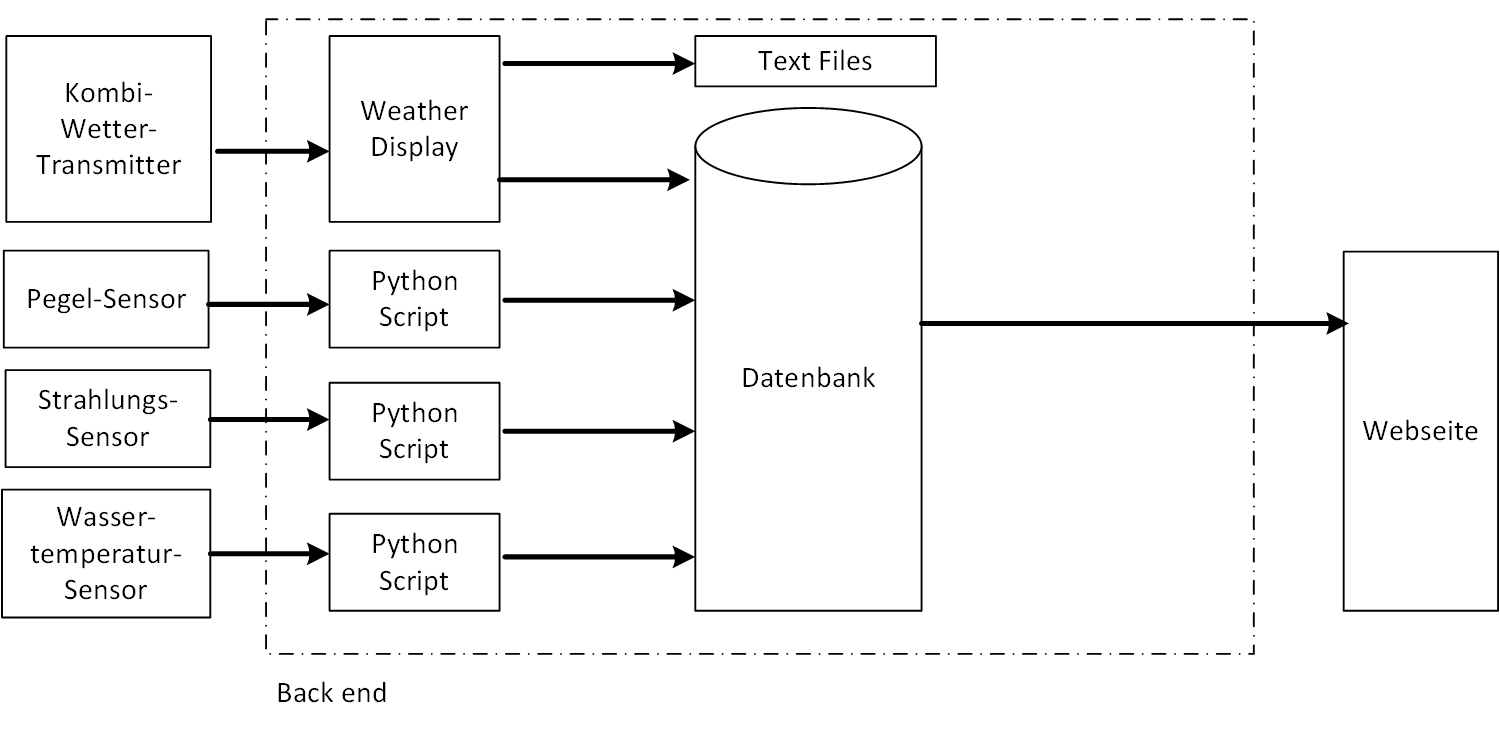
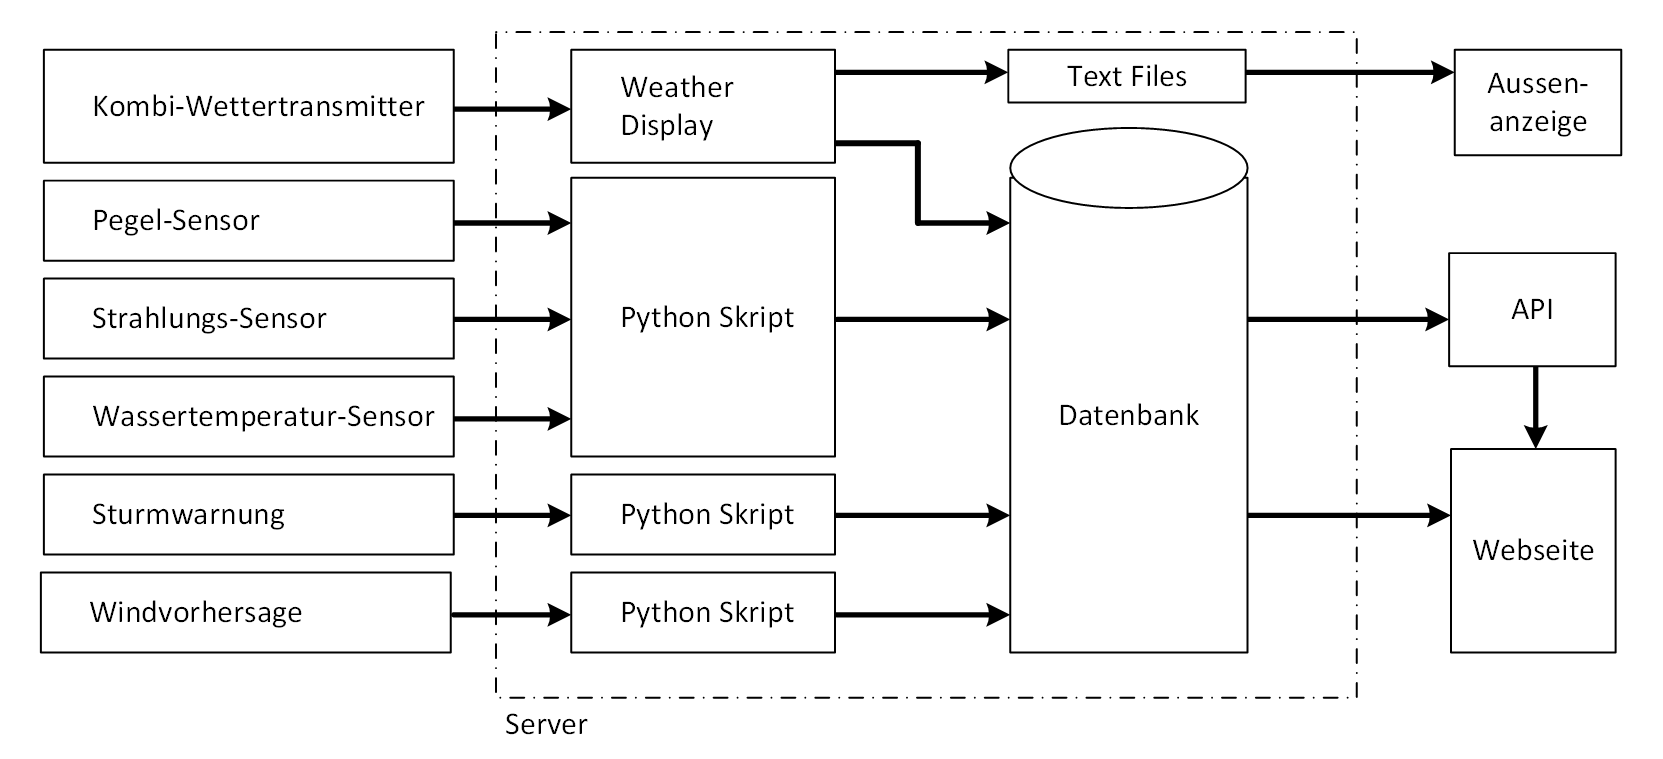
Doku korrigiert

diff --git a/doku/backend.tex b/doku/backend.tex
@@ -1,38 +1,25 @@
-\section{Datenbank / back end / cronjobs}
-In diesem Kapitel wird aufgezeigt welche Änderungen an der Datenbank vorgenommen werden und wo diese überall zum Einsatz kommen. Zudem wird aufgezeigt, wie diese zusätzlichen Anwendungen entwickelt wurden. Vor der Umstrukturierung der Datenbank waren die Tabellen unübersichtlich aufgebaut. Nach der Umstrukturierung soll die Datenbank primär für folgende Aufgaben ausgelegt sein:
-\begin{itemize*}
-\item API
-\item Dreitage Rückschau der verschiedenen Sensoren
-\item Historische Daten
-\end{itemize*}
-
-Die Aufgabe der Datenbank ist es, den Umgang mit den Daten einfacher zu gestalten. Sei es in Bezug auf die Aufbereitung der historischen Daten oder für den Aufbau der API, welche einfach erweiterbar sein soll.
-
-
+\section{Serverseitige Implementierung und Datenbank-Architektur}
+Die serverseitige Implementierung bildet die Schnittstelle zwischen dem Client das heisst dem Internet Browser und den Messdaten. Diese müssen von den Sensoren in regelmässigen Abständen abgerufen und in der Datenbank gespeichert werden. Da die Datenbank das Herzstück der Wetterstation darstellt muss sie auch entsprechend geschützt werden vor Datenverlust und oder -manipulation. Die einzelnen Komponenten sowie der Aufbau der Datenbank werden im Folgenden erläutert.
 
 %% ############################################################################
 %% Unterkapitel
 %% ############################################################################
 \subsection{Datenerfassung}
-% Ueberischt über alle Kanäle -> was wird wie erfasst
+Die einzelnen Daten werden unterschiedlich erfasst, wobei mit Ausnahme der Messwerten des Kombi-Wettertransmitters sämtliche Abfragen mittels Skripten durchgeführt werden. Ein Übersicht des Datenflusses ist in Abbildung\,\ref{img:datenerfassung} dargestellt. Im Folgenden werden die einzelnen Skripte erklärt.
 
 \begin{figure}[htbp!]
   \fbox{\includegraphics[width=\textwidth-2\fboxsep-2\fboxrule]{img/datenerfassung}}
 	\centering
-	\caption{Datenerfassung}
+	\caption{Schematische Übersicht der Datenerfassung}
 	\label{img:datenerfassung}
 \end{figure}
 
 
+\subsubsection{Erfassung der Messdaten des Kombi-Wettertransmitters}
+Die Daten des Kombi-Wettertransmitters werden weiterhin von WeatherDisplay über eine virtuelle serielle Schnittstelle abgerufen, aufbereitet und im Minutentakt in die Datenbank gespeichert. Kann ein Datenbankeintrag aus irgendwelchen Gründen nicht erstellt werden, wird dies, wie später im Kapitel\,\ref{kap:Funktionsüberwachung} beschrieben, gemeldet. Weiter erzeugt Weather Display mehrere Text Files, welche unter anderem für die Aussenanzeige (Laufschrift am Hafengebäude) benötigt werden. Die Aussenanzeige ist aber nicht Bestandteil dieser Arbeit.
 
-
-\subsubsection{Erfassung der Daten des Wetter-Transmitters}
-Die Daten des Wetter-Transmitters werden weiterhin von WeatherDisplay über eine virtuelle serielle Schnittstelle abgerufen sowie aufbereitet. Damit die Daten im Minutentakt in der Datenbank gespeichert werden. Für die Umgestaltung der Datenbank wurde auch die Konfiguration im WeatherDisplay angepasst. \Diskussionspunkt{Bild Weatherdisplay Konfiguration} In der Konfiguration können die Datenpunkte welche eingetragen werden sollen selektiert werden. \Diskussionspunkt{Weitere Konfigmöglichkeiten aufzeigen}
-
-Kann ein Datenbankeintrag nicht erstellt werden, weil es zu wenig Einträge hat oder aus anderen Gründen wird dies, wie später im Kapitel Funktionsüberwachung mit Mail-Service \ref{kap:Funktionsüberwachung}, beschrieben im Cronjob abgefangen.
-
-\subsubsection{Einlesen von Pegel- und Strahlungsmesswerten}
-Wassertemperatur, Strahlungssensor und Pegelsenoren sind alle an einem Web-IO angeschlossen, welche die analogen Werte per Web-Schnittstelle zur Verfügung stellt. Die Abfrage erfolgt einmal pro Minute durch ein Python-Skript, wie in Listing \ref{lst:webIo} dargestellt. Der URL-Request wird mittels cURL ausgeführt. Die Abfrage ist für alle genannten Sensoren die gleiche, nur die URL unterscheidet sich je nach Sensor. Die Abfragen sind nach dem try... catch - Prinzip aufgebaut, sodass das Skript weiterläuft auch wenn vom Web-IO keine Antwort eintrifft.
+\subsubsection{Einlesen von Pegel-, Strahlungs, und Wassertemperaturmesswerten}
+Strahlungs- und Pegelsensor sind an einem Web-IO angeschlossen (siehe Datenblatt im Anhang\,\ref{Spec_webio}), welches die analogen Werte (in Milliampere) per Web-Schnittstelle zur Verfügung stellt. Die Abfrage erfolgt einmal pro Minute durch ein Python-Skript, wie in Listing \ref{lst:webIo} dargestellt. Die Temperatursensoren (PT100-Elemente) werden ähnlich erfasst mit dem Unterschied, dass nicht der Widerstandswert sondern direkt Grad Celsius geliefert wird. Als Schnittstelle wird an Stelle des Web-IO ein Web-Thermograph eingesetzt (siehe Datenblatt im Anhang\,\ref{Spec_webthermograph}).
 
 \begin{lstlisting}[label=lst:webIo,caption=Python-Script zur Web-Abfrage des Pegel-Messwerts, language=python, style=py]
 try:
@@ -45,18 +32,20 @@ try:
     requestMeasurement = buffer.getvalue()
 \end{lstlisting}
 
+\noindent
+Der URL-Request wird mittels cURL ausgeführt. Die Abfrage ist für alle genannten Sensoren die gleiche, mit Ausnahme der Portnummer, welche sich je nach Sensor unterscheidet. Die Abfragen sind nach dem try... catch - Prinzip aufgebaut, sodass das Skript weiterläuft auch wenn ein Web-Interface nicht antwortet.
+
+
 
 \subsubsection{Abgreifen der Sturmwarndaten} % screen scrapping
-Die Sturmwarndaten werden periodisch mittels Python-Skript ausgelesen. Als Web-Scrapper kommt die Python-Bibliothek \href{https://www.crummy.com/software/BeautifulSoup/}{\emph{BeautifulSoup}} zum Einsatz. Das Auslesen von Webseiten wird auch \emph{web scraping} genannt. Die Idee dahinter ist, die gewünschte Information auf Grund ihrer Element-Bezeichnung (\texttt{<td>}), ihres Attributs (\texttt{class="titelfett"}) oder Hierarchistufe (\texttt{tr:nth-of-type(4)}) eindeutig zu identifizieren. Um diese eindeutige Identifikation herauszufinden wurde das Google Chrome-Plugin \href{https://selectorgadget.com/}{\emph{SelectorGadget }} verwendet. Listing \ref{lst:kttgCrawler} zeigt die gesamte Abfrage. Darin ist das Problem dieser Methode gut erkennbar. Ändert die URL oder die Bezeichung bzw. Struktur der Seite, liefert das Skript nicht mehr die gewünschten Daten. Da das Web-Scrapping jedoch die einzige kostenlose Möglichkeit darstellt um die Daten zu erhalten, muss dieses Risiko akezptiert werden.
+Die Sturmwarndaten werden periodisch mittels Python-Skript ausgelesen. Als Tool kommt die Python-Bibliothek \href{https://www.crummy.com/software/BeautifulSoup/}{\emph{BeautifulSoup}} zum Einsatz. Das Auslesen von Webseiten wird auch \emph{web scraping} genannt. Die Idee dahinter ist, die gewünschte Information auf Grund ihrer Element-Bezeichnung (z.B. \texttt{<td>}), ihres Attributs (z.B. \texttt{class="titelfett"}) oder Hierarchistufe (z.B. \texttt{tr:nth-of-type(4)}) eindeutig zu identifizieren. Um diese eindeutige Identifikation herauszufinden wurde das Google Chrome-Plugin \href{https://selectorgadget.com/}{\emph{SelectorGadget }} verwendet. Listing \ref{lst:kttgCrawler} zeigt die gesamte Abfrage. Darin ist auch das Problem dieser Methode gut erkennbar. Ändert die URL oder die Bezeichnung bzw. Struktur der Seite, liefert das Skript nicht mehr die gewünschten Daten. Da aber das Web-Scrapping die einzige kostenlose Möglichkeit darstellt um die Daten zu erhalten, muss dieses Risiko akzeptiert werden.
 
 
 \begin{lstlisting}[label=lst:kttgCrawler,caption=Web-Scrapper für die Sturmwarndaten, language=python, style=py]
 page = requests.get('http://www.kttg.ch/kapo/htm/stwarn.shtml')
 soup = BeautifulSoup(page.text, 'html.parser')
-
 # Einschaltzeit auslesen
 soup.select('table tr:nth-of-type(4) td'):
-
 # Status auslesen
 soup.select('.titelfett strong'):
 \end{lstlisting}

diff --git a/doku/app_datasheets.tex b/doku/app_datasheets.tex
@@ -9,14 +9,14 @@
 \includepdf[pages=-,frame,scale=0.7,pagecommand={\pagestyle{plain}\subsection{Strahlungssensor}}]{appendix/Spec_SR05.pdf}
 
 % Web Thermograph
-\includepdf[pages=1,frame,scale=0.7,pagecommand={\pagestyle{plain}\subsection{Web-Thermograph 8x}}]{appendix/Spec_WTthermo.pdf}
+\includepdf[pages=1,frame,scale=0.7,pagecommand={\pagestyle{plain}\subsection{Web-Thermograph 8x}\label{Spec_webthermograph}}]{appendix/Spec_WTthermo.pdf}
 \includepdf[pages=2-,frame,scale=0.7,pagecommand={}]{appendix/Spec_WTthermo.pdf}
 
 % Web-IO
-\includepdf[pages=1 ,frame,scale=0.7,pagecommand={\subsection{Web-IO Analog-In/Out 2x}}]{appendix/Spec_WTanalog.pdf}
+\includepdf[pages=1 ,frame,scale=0.7,pagecommand={\subsection{Web-IO Analog-In/Out 2x}\label{Spec_webio}}]{appendix/Spec_WTanalog.pdf}
 \includepdf[pages=2-,frame,scale=0.7,pagecommand={}]{appendix/Spec_WTanalog.pdf}
 
 
 % Webcam
-\includepdf[pages=1 ,frame,scale=0.7,pagecommand={\subsection{Webcam\label{Spec_Webcam}}}]{appendix/Spec_Webcam.pdf}
+\includepdf[pages=1 ,frame,scale=0.7,pagecommand={\subsection{Webcam}\label{Spec_Webcam}}]{appendix/Spec_Webcam.pdf}
 \includepdf[pages=2-,frame,scale=0.7,pagecommand={}]{appendix/Spec_Webcam.pdf}
